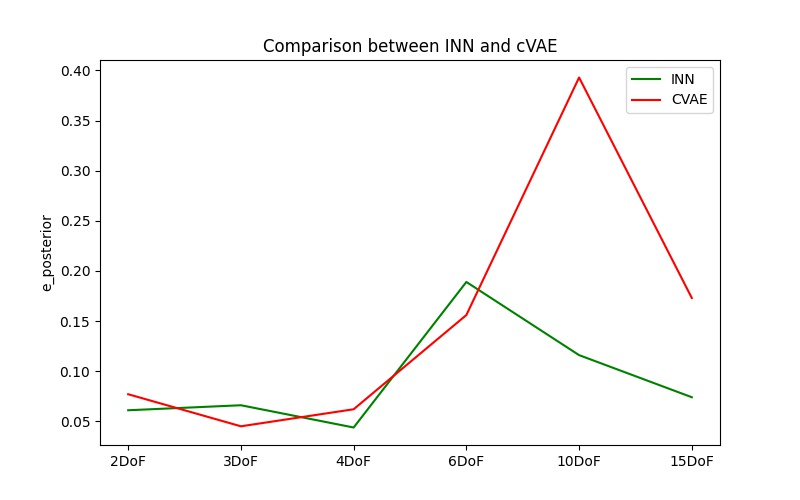
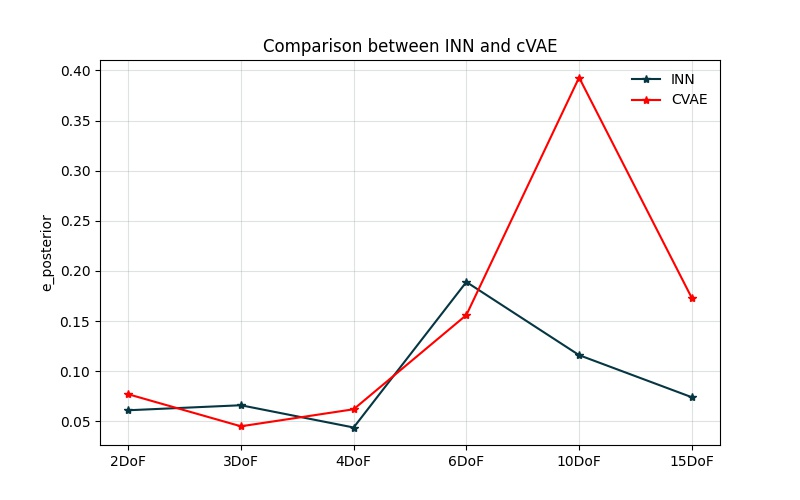
minor changes

diff --git a/src/visualization.py b/src/visualization.py
@@ -23,18 +23,20 @@ if __name__ == '__main__':
 
     # e_posterior
     plt.figure(figsize=(8, 5))
-    plt.plot(names_INN_post, values_INN_post, color="g", label="INN")
-    plt.plot(names_CVAE_post, values_CVAE_post, color="r", label="CVAE")
+    plt.plot(names_INN_post, values_INN_post, color="#073642", label="INN", marker='*')
+    plt.plot(names_CVAE_post, values_CVAE_post, color="r", label="CVAE", marker='*')
+    plt.grid(True, color="#93a1a1", alpha=0.3)
     plt.ylabel('e_posterior')
-    plt.legend()
+    plt.legend(frameon=False)
     plt.title('Comparison between INN and cVAE')
     plt.savefig('comparison_e_posterior.jpg')
 
     # e_resim
     plt.figure(figsize=(8, 5))
-    plt.plot(names_INN_resim, values_INN_resim, color="g", label="INN")
-    plt.plot(names_CVAE_resim, values_CVAE_resim, color="r", label="CVAE")
+    plt.plot(names_INN_resim, values_INN_resim, color="#073642", label="INN", marker='*')
+    plt.plot(names_CVAE_resim, values_CVAE_resim, color="r", label="CVAE", marker='*')
+    plt.grid(True, color="#93a1a1", alpha=0.3)
     plt.ylabel('e_resim')
-    plt.legend()
+    plt.legend(frameon=False)
     plt.title('Comparison between INN and cVAE')
     plt.savefig('comparison_e_resim.jpg')
